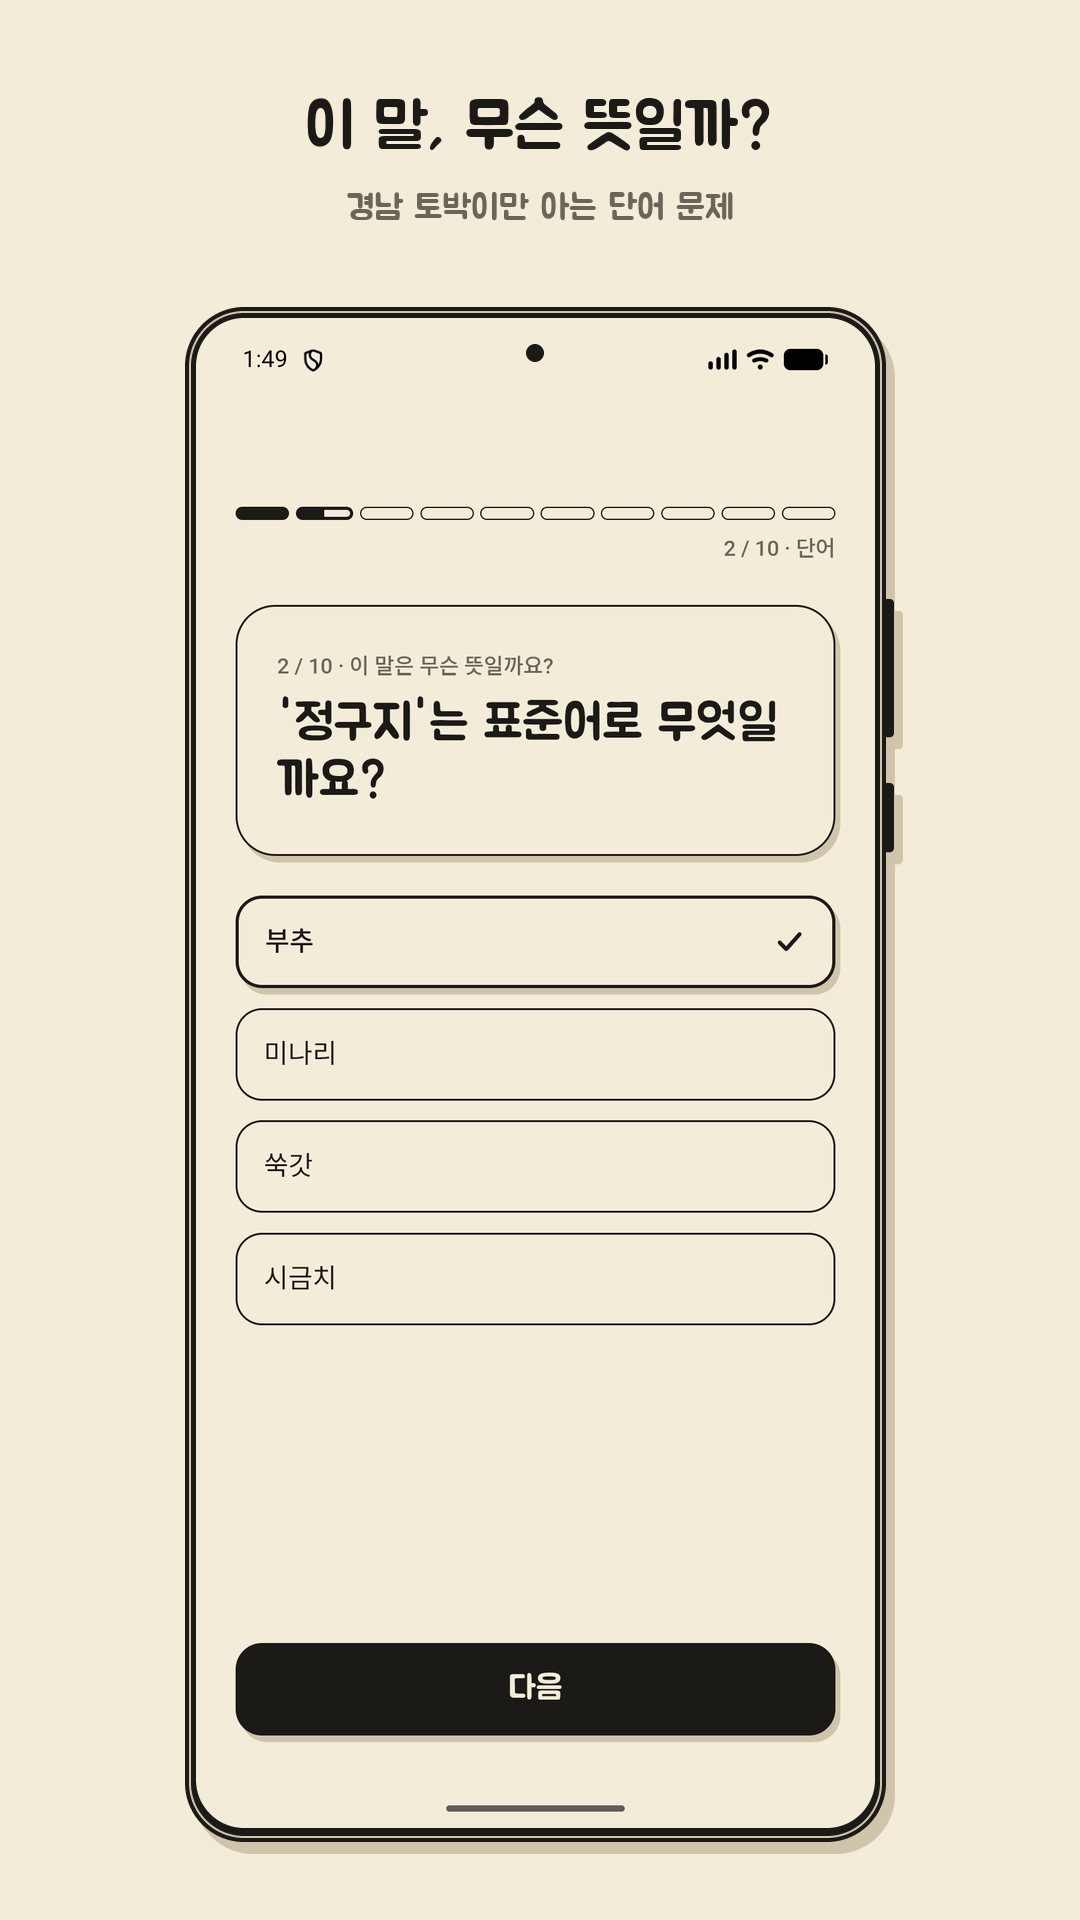
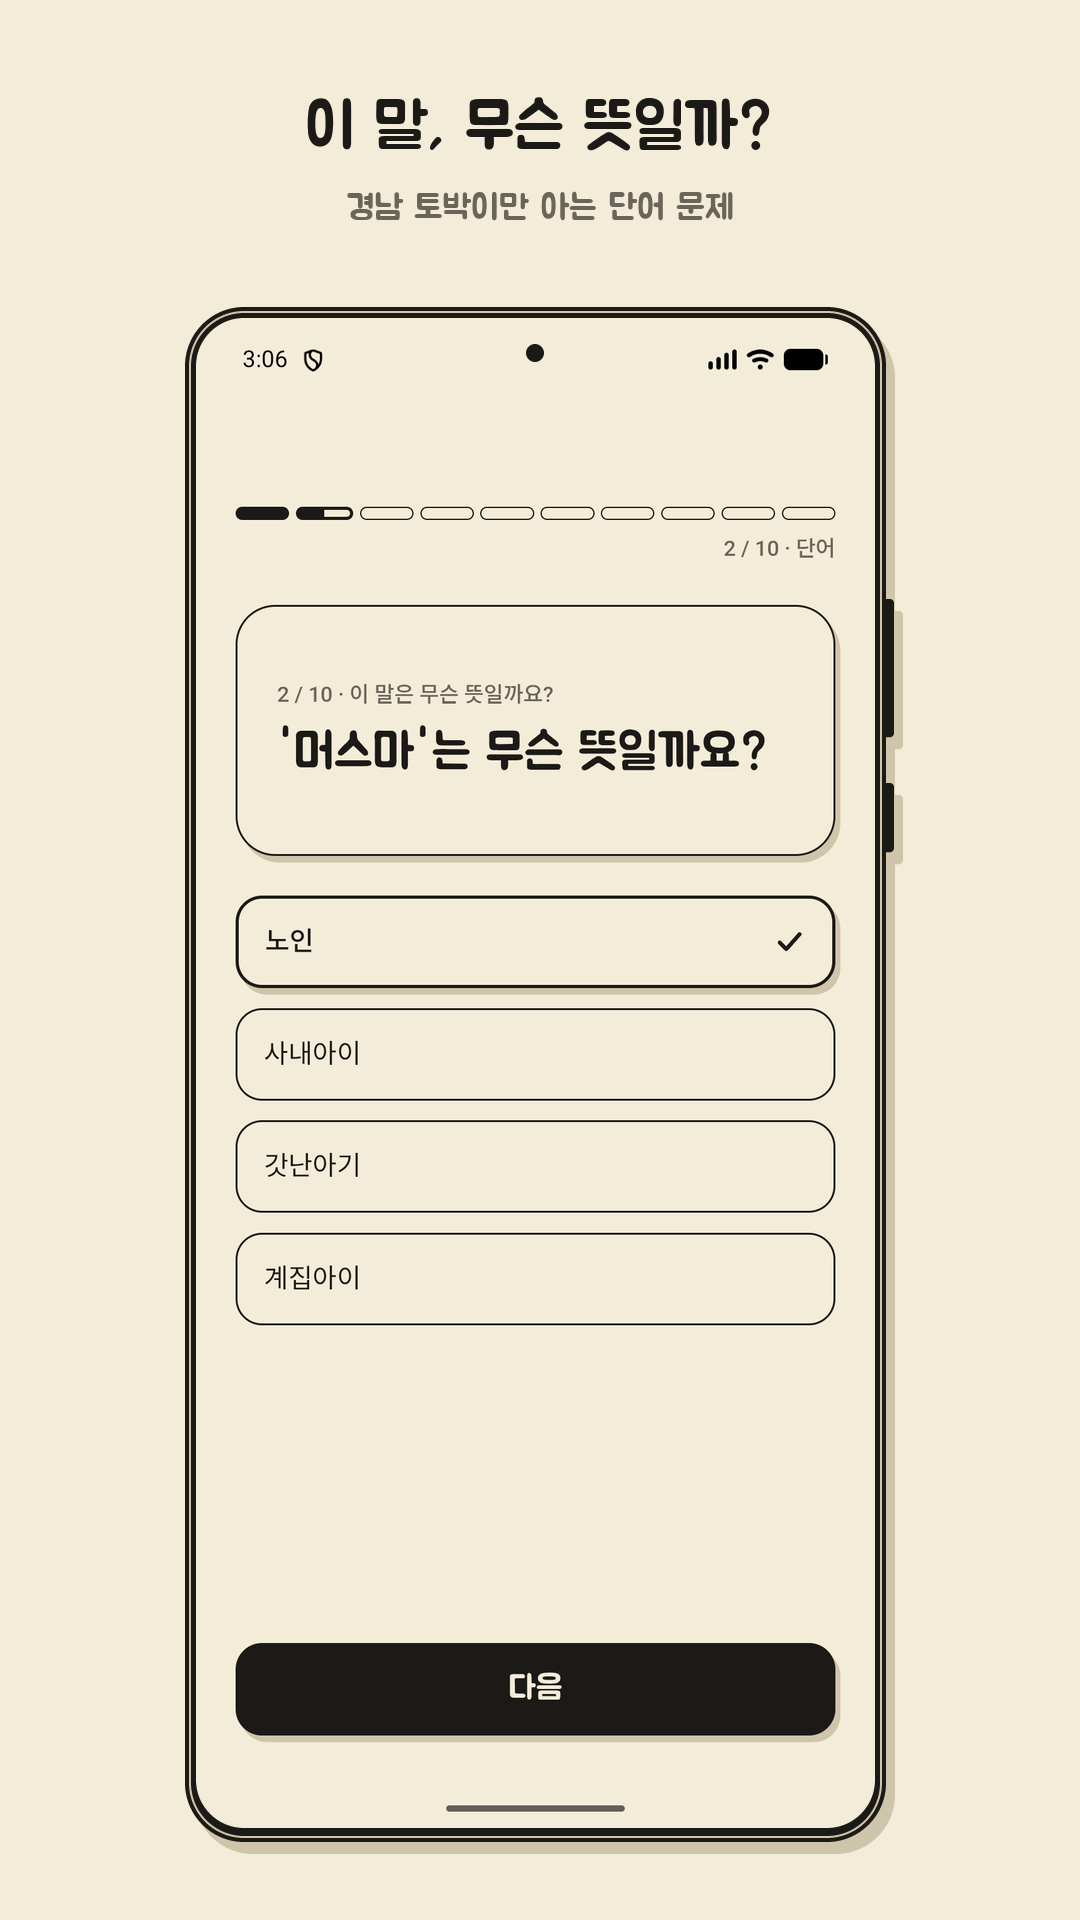
KAN-174 5단계 - Play 스토어 스크린샷 3장을 현재 Dev 화면으로 재촬영 - 광고 동의·IITP 표기·곡선 대역 이후 화면

diff --git a/docs/wiki/app-icon-assets.md b/docs/wiki/app-icon-assets.md
@@ -240,7 +240,8 @@ Pillow·numpy가 필요하다 — 없으면 가상환경을 만들어 `pip insta
 
 ## 7. 이월
 
-- **실기기 캡처** — 현재 스크린샷은 에뮬레이터(Android)·시뮬레이터(iOS) 캡처다. AC1은 이것으로 충족하지만, 실기기 캡처로 갈아 끼우면 더 낫다. 캡처만 `raw/`에 덮고 다시 돌리면 된다.
+- **실기기 캡처** — 현재 스크린샷은 에뮬레이터(Android)·시뮬레이터(iOS) 캡처다. AC1은 이것으로 충족하지만, 실기기 캡처로 갈아 끼우면 더 낫다. 캡처만 `raw/`에 덮고 다시 돌리면 된다. Android `01-intro`·`02-recording`·`03-vocab`는 2026-09-22에 다시 찍었다(광고 동의 시트·IITP 표기·곡선 대역 반영). `raw/android/04-result`와 `raw/ios/*`는 2026-09-03 캡처 그대로다.
+- **Android `04-result` 재촬영** — 아직 못 했다. 가짜 마이크(`-PfakeMic`)로 prod에 붙으면 음성 5문항이 전부 "분석 실패"로 떨어져 결과 화면까지 못 간다(단어 5문항만 통과해 "분석 중 5 / 10"에서 멈춘다). prod AI는 실제 발화를 기대하는데 가짜 마이크가 흘리는 WAV는 문항 문장과 다른 소리라서다 — 2.5초 원본과 7.5초(3배 이어붙임) 양쪽 모두 같은 결과였다. 결과 화면을 찍으려면 AI 스텁을 띄운 로컬 스택에 붙이거나(`ticket-emu` 루틴), 실기기에서 사람이 직접 읽어 완주해야 한다.
 - **스토어 등록** — Play(KAN-174, `play-store-listing.md` §3)·App Store(KAN-175, [`app-store-listing.md`](app-store-listing.md) §4)에 이 파일들을 올리는 것은 별도 티켓이다. App Store는 1024 아이콘을 따로 받지 않고 빌드의 에셋 카탈로그에서 꺼내 쓴다.
 - **파비콘·OG 이미지** — KAN-179가 같은 도상을 재사용한다(`web-link-preview.md`, `assets/web/build.py`, 현재 `VERSION = "v2"`). 도상이 또 바뀌면 그쪽도 같이 다시 뽑고 파일명의 `VERSION`을 올려야 한다 — 웹 자산은 1년 immutable 캐시라 이름을 안 바꾸면 옛 그림이 계속 나간다.
 - **캡션 문구 팀 확정** — 네 화면의 헤드라인·보조 문구는 개발자가 초안을 잡은 것이다. `CAPTIONS` 한 곳만 고치면 세 규격에 반영된다.
